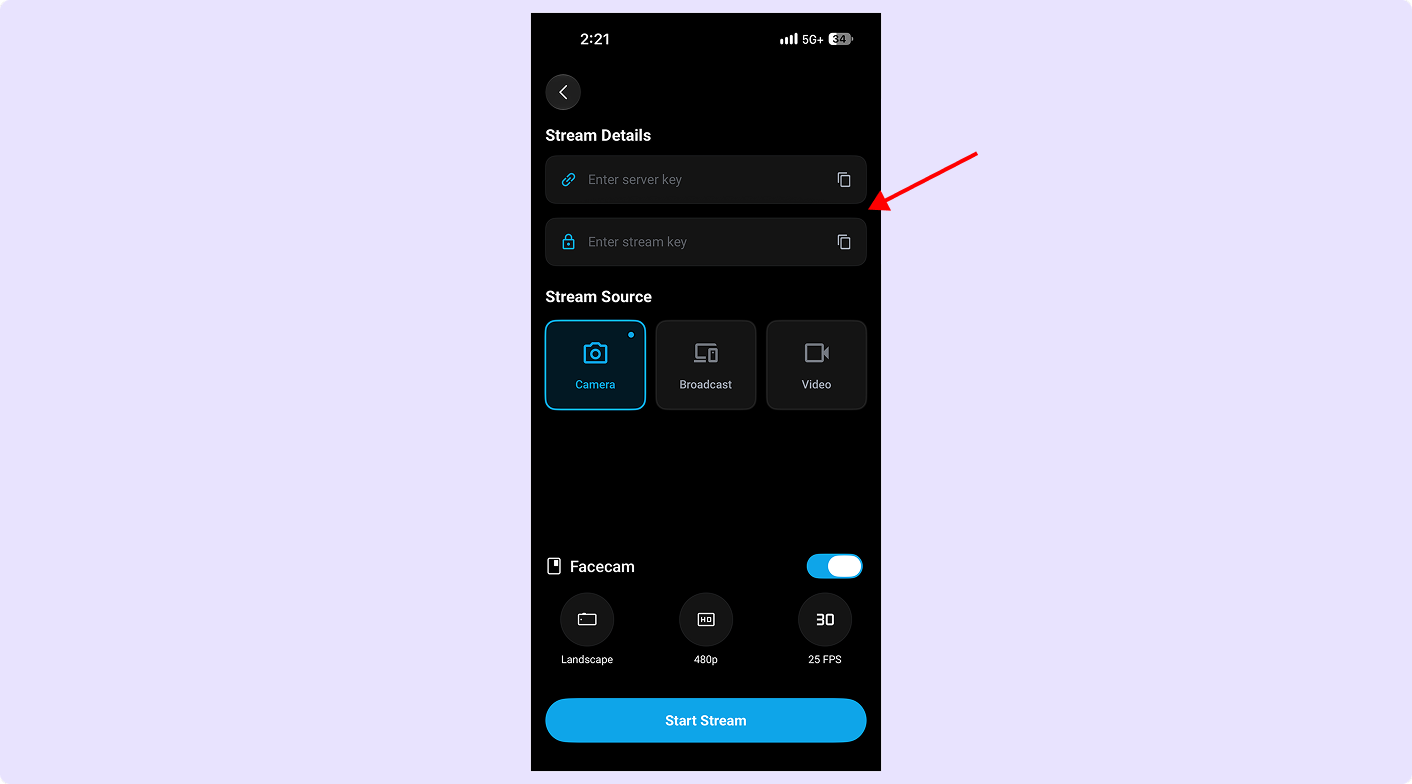
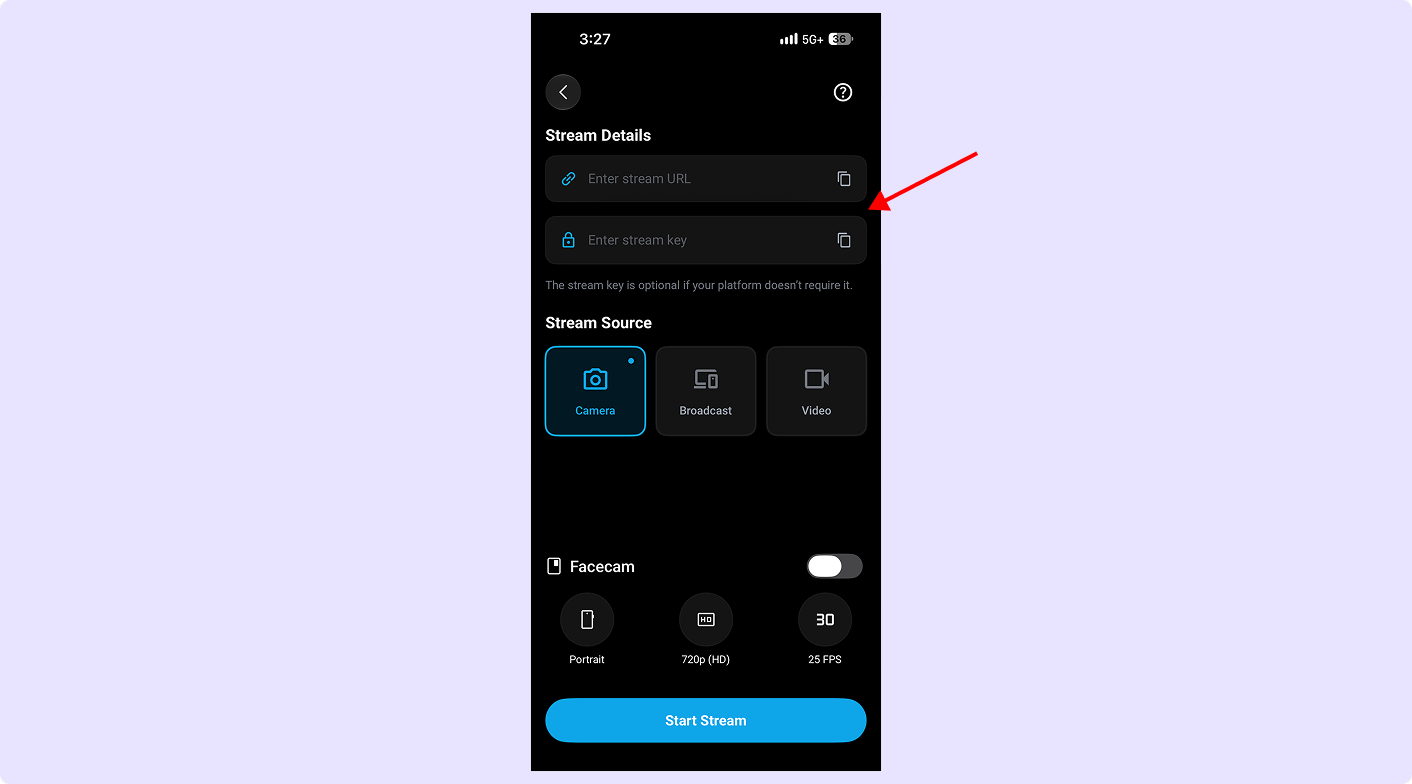
updated new guide pages

diff --git a/guide_linkedin.html b/guide_linkedin.html
@@ -1,0 +1,154 @@
+<!DOCTYPE html>
+<html>
+
+<head>
+    <meta charset="utf-8">
+    <meta name="viewport" content="width=device-width, initial-scale=1">
+    <title>Qveedo</title>
+    <link rel="preconnect" href="https://fonts.googleapis.com">
+    <link rel="preconnect" href="https://fonts.gstatic.com" crossorigin>
+    <link
+        href="https://fonts.googleapis.com/css2?family=Poppins:ital,wght@0,100;0,200;0,300;0,400;0,500;0,600;0,700;0,800;0,900;1,100;1,200;1,300;1,400;1,500;1,600;1,700;1,800;1,900&display=swap"
+        rel="stylesheet">
+
+
+    <link rel="stylesheet" type="text/css" href="css/style.css">
+
+
+</head>
+
+<body>
+    <div class=wrapper>
+        <!-- <header>
+            <div class="container">
+                <div class="logo">
+                    <img src="img/logo_live.png" title="Live Screen: Record With Audio"
+                        alt="Live Screen: Record With Audio">
+                </div>
+                <div class="header-right" style="display: none;">
+                    <a href="https://apps.apple.com/us/app/live-screen-record-with-audio/id6467652071?platform=iphone"
+                        target="_blank">
+                        <img src="img/apple-dark-big.png" title="Live Screen: Record With Audio"
+                            alt="Live Screen: Record With Audio">
+                    </a>
+                    <a href="https://play.google.com/store/apps/details?id=com.atharvasystem.quickscreenrecorder&hl=en_IN"
+                        target="_blank">
+                        <img src="img/google-dark-big.png" title="Live Screen: Record With Audio"
+                            alt="Live Screen: Record With Audio">
+                    </a>
+                </div>
+            </div>
+        </header> -->
+        <main>
+            <div class="container">
+                <div class="heading">
+                    <h1>How to locate your "LinkedIn" stream key?</h1>
+                    <p>Welcome to Qveedo! Let’s get started with a step-by-step guide to unlock your live-streaming potential.</p>
+                </div>
+                <div class="card">
+                    <h6>Pre-Requirement</h6>
+                    <div class="card-body">
+                        <div class="text">
+                            <p>Before attempting to go live, ensure your LinkedIn account or Page is eligible for LinkedIn Live access.</strong></p>
+                        </div>
+                        <!-- <div class="media">
+                            <img src="img/instagram_one.png" title="Login in your Instagram Account"
+                                alt="Login in your Instagram Account">
+                        </div> -->
+                    </div>
+                </div>
+                <div class="card">
+                    <h6>Step 1:</h6>
+                    <div class="card-body">
+                        <div class="text">
+                            <p>Log in to your LinkedIn account on your computer. Open LinkedIn Live Studio using this link 
+                                <a href="https://www.linkedin.com/video/golive/later/" target="_blank" rel="noopener noreferrer">
+                                    https://www.linkedin.com/video/golive/later/ 
+                                </a>
+                            </p>
+                        </div>
+                        <div class="media">
+                            <img src="img/linkedin_one.png" title="Login in your LinkedIn Account"
+                                alt="Login in your LinkedIn Account">
+                        </div>
+                    </div>
+                </div>
+                <div class="card">
+                    <h6>Step 2: </h6>
+                    <div class="card-body">
+                        <div class="text">
+                            <p>Schedule a live stream with all required details and click on “Schedule stream”</p>
+                        </div>
+                        <div class="media">
+                            <img src="img/linkedin_two.png" title="Step 2: Schedule stream"
+                                alt="Step 2: Schedule stream">
+                        </div>
+                        <!-- <div class="text">
+                            <p>and paste the <strong>"Stream Key"</strong> in our app, then click on next and start
+                                streaming</p>
+                        </div>
+                        <div class="media">
+                            <img src="img/common_mobilescreen.png" title="Step 2: Guide to Live Broadcast"
+                                alt="Step 2: Guide to Live Broadcast">
+                        </div> -->
+                    </div>
+                </div>
+                <div class="card">
+                    <h6>Step 3:</h6>
+                    <div class="card-body">
+                        <div class="text">
+                            <p>Navigate to <strong>Manage Stream and Refresh page</strong> , select your streaming and click on <strong>Prepare to go live.</strong></p>
+                            
+                        </div>
+                        <div class="media">
+                            <img src="img/linkedin_three.png" title="Step 3: Navigate to Manage Stream" alt="Step 3: Navigate to Manage Stream">
+                        </div>
+
+                    </div>
+                </div>
+                <div class="card">
+                    <h6>Step 4:</h6>
+                    <div class="card-body">
+                        <div class="text">
+                            <p>Select your region from the <strong>Stream settings</strong> tab and click on the “<strong>Get URL</strong>” button. Then, copy the Stream URL and Stream Key. <br>
+                            <br> <strong>If you don’t find your region in the dropdown list, choose the nearest location to your region.</strong></p>
+                        </div>
+                        <div class="media">
+                            <img src="img/linkedin_four.png" title="Step 4: Navigate to Stream settings" alt="Step 4: Navigate to Stream settings">
+                        </div>
+
+                    </div>
+                </div>
+                <div class="card">
+                    <h6>Step 5:</h6>
+                    <div class="card-body">
+                        <div class="text">
+                            <p>Paste them into the respective fields in the Qveedo app. Tap <strong>Start Stream</strong> to continue.</p>
+                        </div>
+                        <div class="media">
+                            <img src="img/common_mobilescreen.png" title="Step 5: Go Live!" alt="Step 5: Go Live!">
+                        </div>
+
+                    </div>
+                </div>
+                <div class="card">
+                    <h6>Step 6:</h6>
+                    <div class="card-body">
+                        <div class="text">
+                            <p>Once your stream is connected and the preview is ready, return to LinkedIn Live Studio and click <strong>Go Live</strong> to start broadcasting.</p>
+                        </div>
+                        <div class="media">
+                            <img src="img/linkedin_five.png" title="Step 5: Go Live!" alt="Step 5: Go Live!">
+                        </div>
+
+                    </div>
+                </div>
+            </div>
+        </main>
+        <footer class="footer">
+            <p>Qveedo © All rights reserved</p>
+        </footer>
+    </div>
+</body>
+
+</html>

diff --git a/guide_instagram.html b/guide_instagram.html
@@ -56,7 +56,7 @@
                             </div>
                         </div>
                         <!-- <div class="media">
-                            <img src="img/Instagram_one.png" title="Login in your Instagram Account"
+                            <img src="img/instagram_one.png" title="Login in your Instagram Account"
                                 alt="Login in your Instagram Account">
                         </div> -->
                     </div>
@@ -69,7 +69,7 @@
                         
                         </div>
                         <div class="media">
-                            <img src="img/Instagram_one.png" title="Login in your Instagram Account"
+                            <img src="img/instagram_one.png" title="Login in your Instagram Account"
                                 alt="Login in your Instagram Account">
                         </div>
                     </div>
@@ -85,14 +85,14 @@
                         </div>
                         
                         <div class="media">
-                            <img src="img/Instagram_two.png" title="Step 2: Guide to Live Broadcast"
+                            <img src="img/instagram_two.png" title="Step 2: Guide to Live Broadcast"
                                 alt="Step 2: Guide to Live Broadcast">
                         </div>
                         <div class="text">
                             <p>Click Next. Find A screen will appear displaying your unique <strong>Stream URL</strong> and <strong>Stream Key</strong>. </p>
                         </div>
                         <div class="media">
-                            <img src="img/Instagram_three.png" title="Step 2: Guide to Live Broadcast"
+                            <img src="img/instagram_three.png" title="Step 2: Guide to Live Broadcast"
                                 alt="Step 2: Guide to Live Broadcast">
                         </div>
                         <div class="text">
@@ -109,10 +109,10 @@
                     <div class="card-body">
                         <div class="text">
                             <p>Once you see your device on you computer, Click on <strong>"Go Live"</strong> and start
-                                streaming.</p>
+                                Stream.</p>
                         </div>
                         <div class="media">
-                            <img src="img/Instagram_four.png" title="Step 3: Go Live!" alt="Step 3: Go Live!">
+                            <img src="img/instagram_four.png" title="Step 3: Go Live!" alt="Step 3: Go Live!">
                         </div>
 
                     </div>

diff --git a/guide_telegram.html b/guide_telegram.html
@@ -58,7 +58,7 @@
                     <h6>Step 4: Paste Server URL and Stream Key into our app</h6>
                     <div class="card-body">
                         <div class="text">
-                            <p>Paste the copied details into our app and proceed.</p>
+                            <p>Paste the copied details into our app and <strong>Start Stream</strong>.</p>
                         </div>
                         <div class="media">
                             <img src="img/common_mobilescreen.png" title="Paste Server URL and Stream Key" alt="Paste Server URL and Stream Key">
@@ -80,7 +80,7 @@
                     <h6>Step 5: Go to Telegram and click Start Streaming</h6>
                     <div class="card-body">
                         <div class="text">
-                            <p>Return to Telegram, click on <strong>Start Streaming</strong>, and you are live!</p>
+                            <p>Return to Telegram, click on <strong>Start Stream</strong>, and you are live!</p>
                         </div>
                         <div class="media">
                             <img src="img/telegram_six.jpg" title="Start Streaming" alt="Start Streaming">

diff --git a/guide_restream.html b/guide_restream.html
@@ -58,7 +58,7 @@
                     <h6>Step 4: Paste RTMP URL and Stream Key to our app and enjoy live streaming</h6>
                     <div class="card-body">
                         <div class="text">
-                            <p>Paste the copied <strong>RTMP URL</strong> and <strong>Stream Key</strong> into our app, and you're all set to enjoy live streaming!</p>
+                            <p>Paste the copied <strong>RTMP URL</strong> and <strong>Stream Key</strong> into our app and click on <strong>Start Stream</strong>, and you're all set to enjoy live streaming!</p>
                         </div>
                         <div class="media">
                             <img src="img/common_mobilescreen.png" title="Paste RTMP URL and Stream Key" alt="Paste RTMP URL and Stream Key">

diff --git a/guide_kick.html b/guide_kick.html
@@ -47,7 +47,7 @@
                     <h6>Step 3: Open Kick Platform in our app and paste Stream URL and Stream Key. Enjoy streaming!</h6>
                     <div class="card-body">
                         <div class="text">
-                            <p>Paste the copied <strong>Stream URL</strong> and <strong>Stream Key</strong> into the Qveedo app, and enjoy live streaming!</p>
+                            <p>Paste the copied <strong>Stream URL</strong> and <strong>Stream Key</strong> into the Qveedo app, and <strong>Start Stream</strong></p>
                         </div>
                         <div class="media">
                             <img src="img/common_mobilescreen.png" title="Enjoy Live Streaming" alt="Enjoy Live Streaming">

diff --git a/guide_trovo.html b/guide_trovo.html
@@ -47,7 +47,7 @@
                     <h6>Step 3: Paste Host URL and Stream Key in our app</h6>
                     <div class="card-body">
                         <div class="text">
-                            <p>Paste the <strong>Host URL</strong> and <strong>Stream Key</strong> into the Qveedo app, and you’re ready to stream!</p>
+                            <p>Paste the <strong>Host URL</strong> and <strong>Stream Key</strong> into the Qveedo app and click on <strong>Start Stream</strong>, and you’re ready to stream!</p>
                         </div>
                         <div class="media">
                             <img src="img/common_mobilescreen.png" title="Paste Host URL and Stream Key" alt="Paste Host URL and Stream Key">

diff --git a/guide_soop.html b/guide_soop.html
@@ -76,7 +76,7 @@
                     <h6>Step 5: Paste URL and Streaming Key in the App</h6>
                     <div class="card-body">
                         <div class="text">
-                            <p>Paste the copied <strong>Streaming URL</strong> and <strong>Streaming Key</strong> into the app and start live streaming.</p>
+                            <p>Paste the copied <strong>Streaming URL</strong> and <strong>Streaming Key</strong> into the app and <strong>Start Stream</strong>.</p>
                         </div>
                         <div class="media">
                             <img src="img/common_mobilescreen.png" title="Paste Streaming Details in App" alt="Paste Streaming Details in App">

diff --git a/guide_castr.html b/guide_castr.html
@@ -77,7 +77,7 @@
                     <h6>Step 5: Paste URL and Streaming Key in the App</h6>
                     <div class="card-body">
                         <div class="text">
-                            <p>Paste the copied <strong>Streaming URL</strong> and <strong>Streaming Key</strong> into the app and start streaming live.</p>
+                            <p>Paste the copied <strong>Streaming URL</strong> and <strong>Streaming Key</strong> into the app and <strong>Start Stream</strong></p>
                         </div>
                         <div class="media">
                             <img src="img/common_mobilescreen.png" title="Paste Streaming Details" alt="Paste Streaming Details">

diff --git a/guide_twitch.html b/guide_twitch.html
@@ -58,7 +58,7 @@
                     <h6>Step 4: Paste the Primary Stream Key into the Qveedo App</h6>
                     <div class="card-body">
                         <div class="text">
-                            <p>Paste the copied <strong>Stream Key</strong> into the Qveedo app, then click <strong>Next</strong> and start streaming.</p>
+                            <p>Paste the copied <strong>Stream Key</strong> into the Qveedo app, then click <strong>Start Stream</strong></p>
                         </div>
                         <div class="media">
                             <img src="img/common_mobilescreen.png" title="Paste Stream Key into the app" alt="Paste Stream Key into the app">

diff --git a/guide_rumble.html b/guide_rumble.html
@@ -69,7 +69,7 @@
                     <h6>Step 5: Paste the Stream URL and Stream Key to our app and enjoy live streaming</h6>
                     <div class="card-body">
                         <div class="text">
-                            <p>Paste the copied Stream URL and Stream Key into the Qveedo app and enjoy live streaming.</p>
+                            <p>Paste the copied Stream URL and Stream Key into the Qveedo app and click on <strong>Start Stream</strong>.</p>
                         </div>
                         <div class="media">
                             <img src="img/common_mobilescreen.png" title="Paste Stream URL and Stream Key" alt="Paste Stream URL and Stream Key">

diff --git a/guide_nimotv.html b/guide_nimotv.html
@@ -69,7 +69,7 @@
                     <h6>Step 5: Paste Server URL and Stream Key in our app and enjoy live streaming</h6>
                     <div class="card-body">
                         <div class="text">
-                            <p>Paste your Server URL and Stream Key into the Qveedo app and start streaming!</p>
+                            <p>Paste your Server URL and Stream Key into the Qveedo app and <strong>Start Stream</strong> </p>
                         </div>
                         <div class="media">
                             <img src="img/common_mobilescreen.png" title="Paste Server URL and Stream Key" alt="Paste Server URL and Stream Key">

diff --git a/guide_facebook.html b/guide_facebook.html
@@ -69,7 +69,7 @@
                     <h6>Step 5: Paste the Stream Key into our app</h6>
                     <div class="card-body">
                         <div class="text">
-                            <p>Paste the copied Stream Key into the Qveedo app, then click on <strong>Next</strong> and start streaming.</p>
+                            <p>Paste the copied Stream Key into the Qveedo app, then click on <strong>Start Stream</strong>.</p>
                         </div>
                         <div class="media">
                             <img src="img/common_mobilescreen.png" title="Paste Stream Key into the app" alt="Paste Stream Key into the app">
